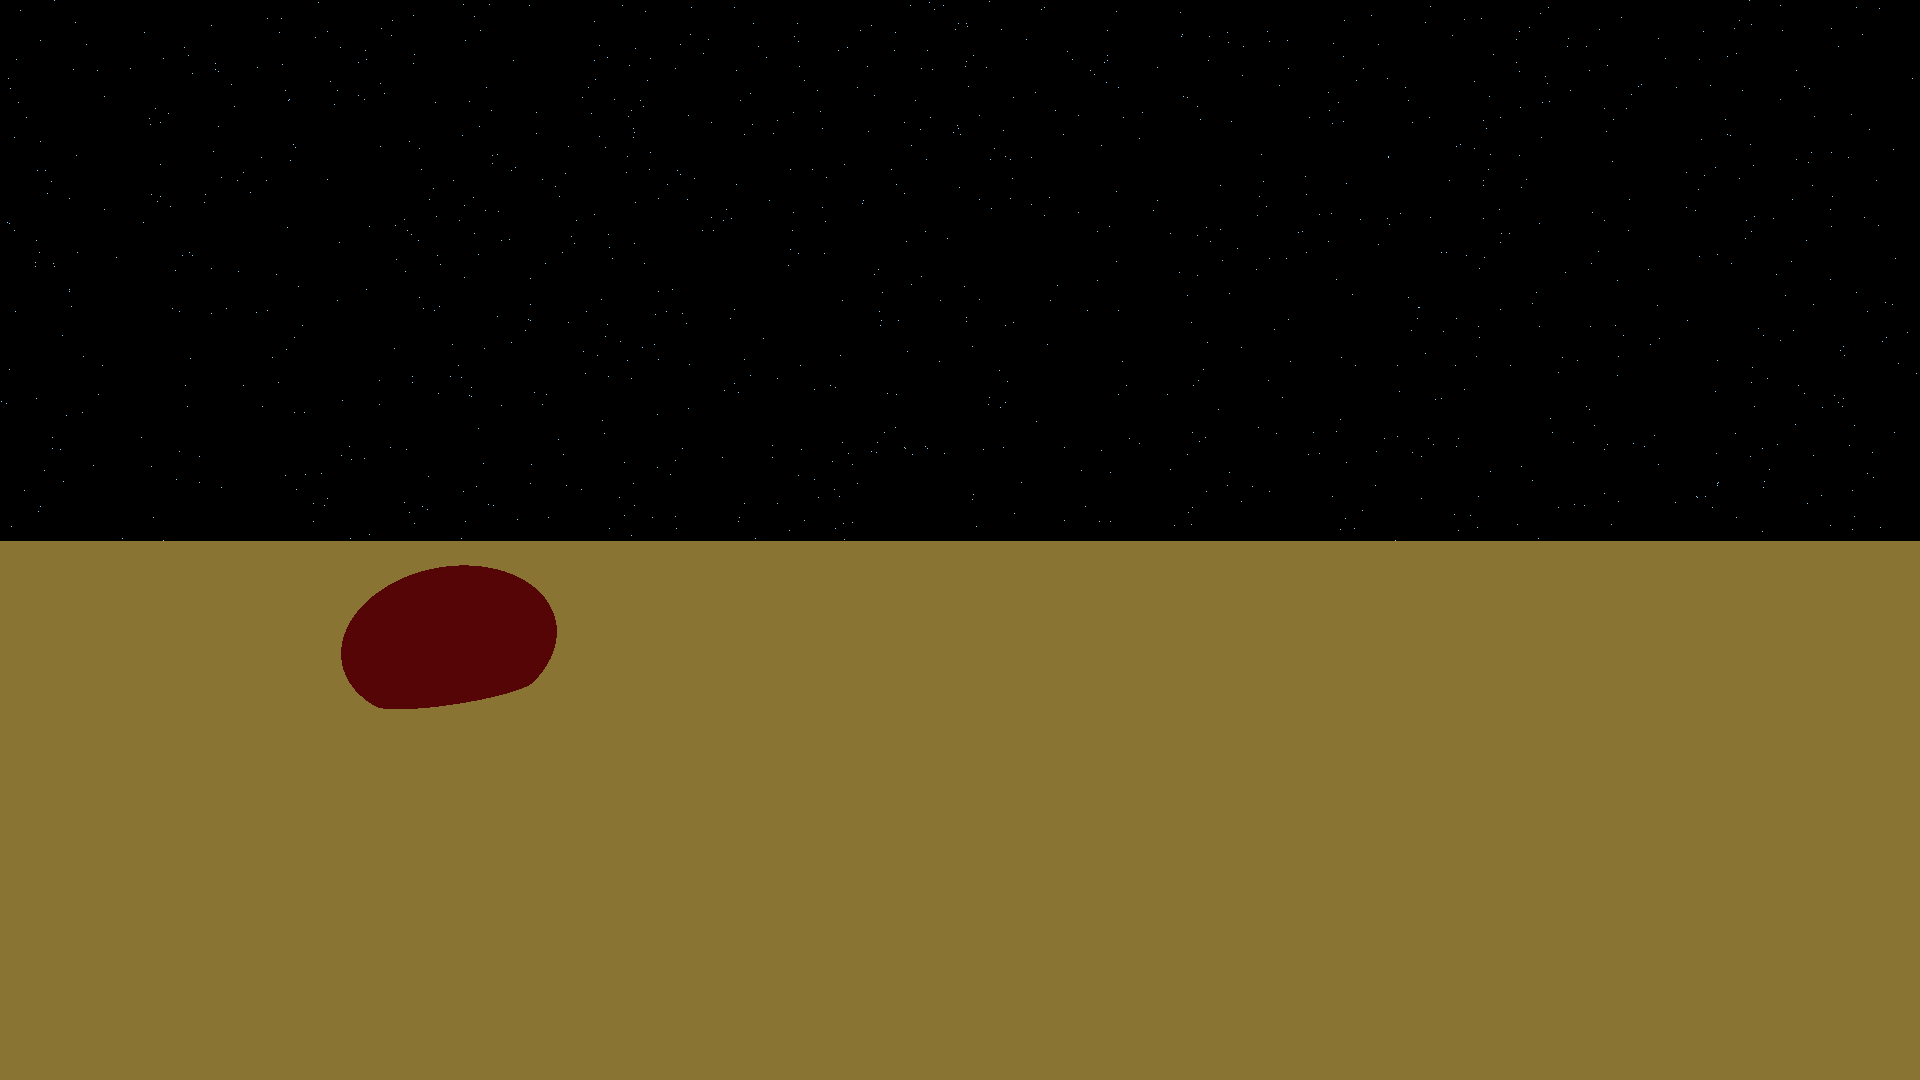
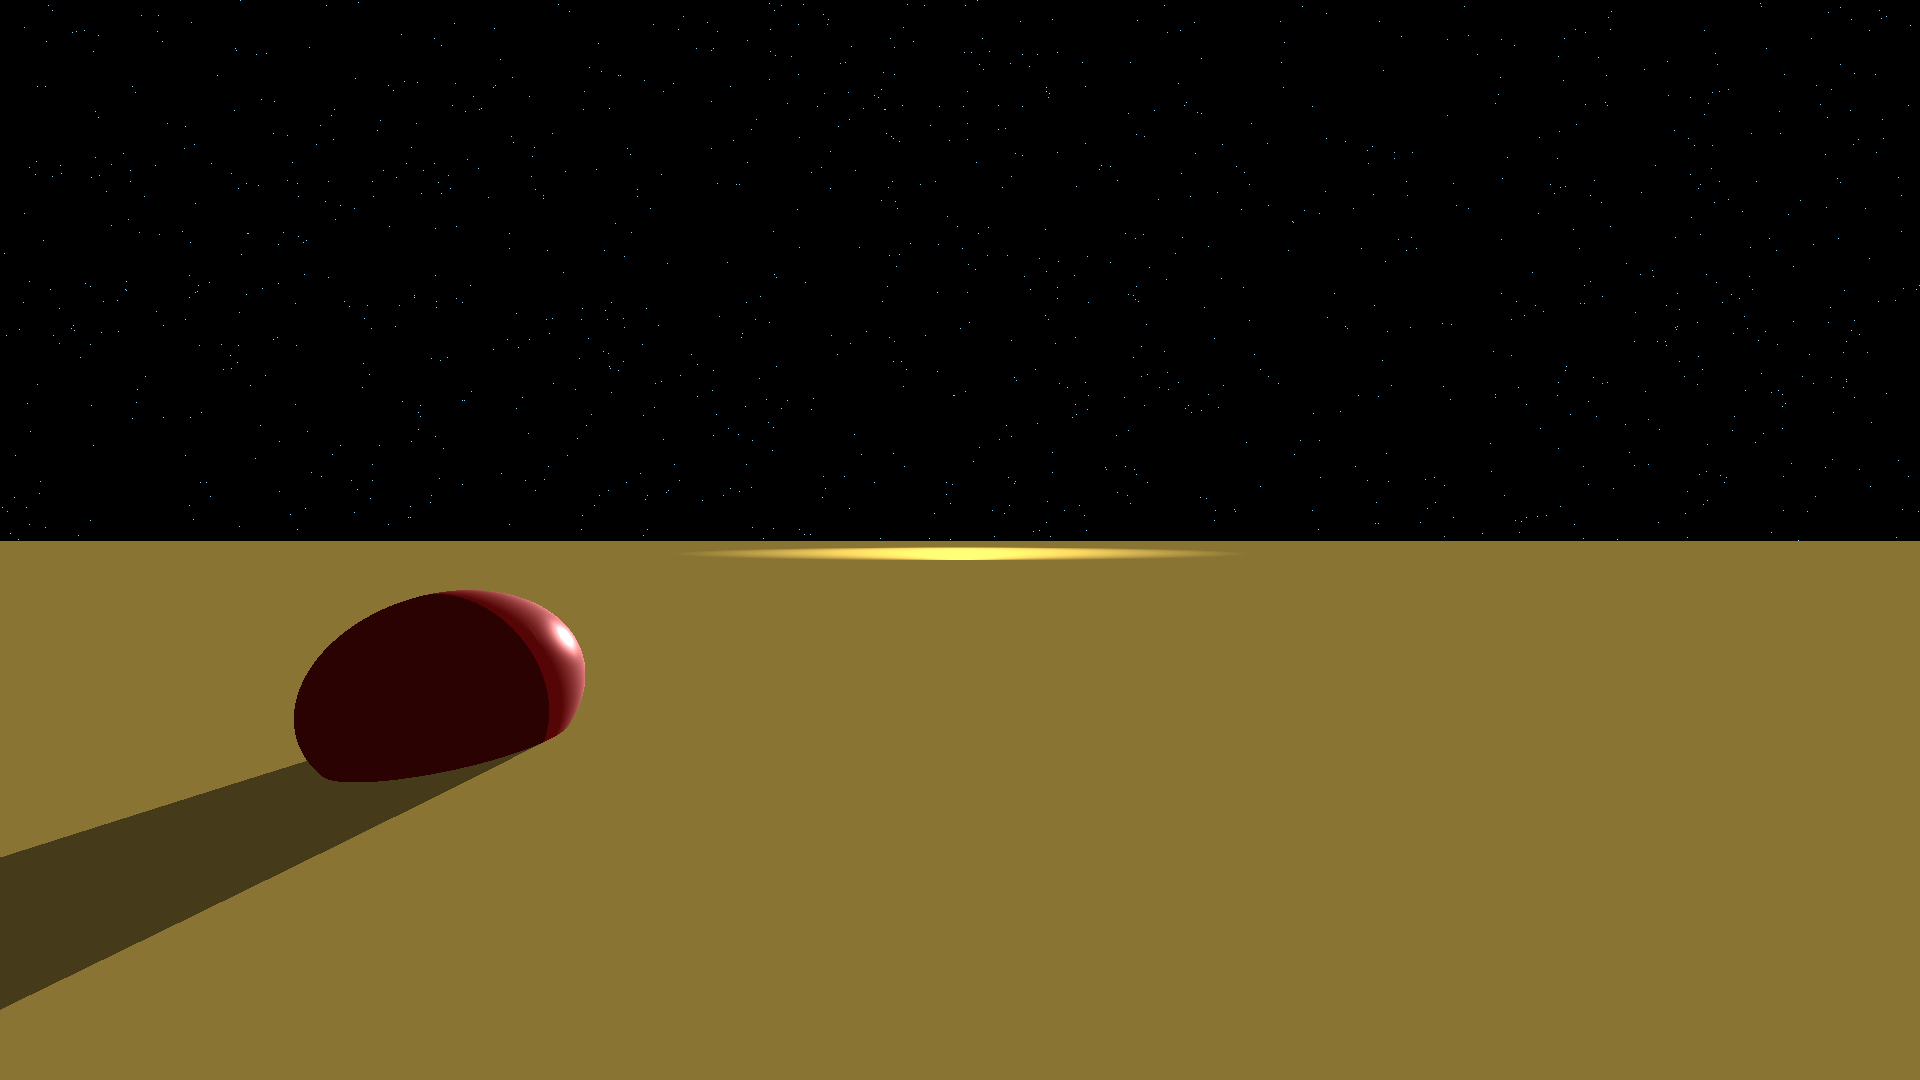
Shadows working

Changed region(s): [[0.0, 0.5194, 0.3125, 0.9472], [0.375, 0.4889, 0.625, 0.5194]]

diff --git a/src/main/Renderer.java b/src/main/Renderer.java
@@ -2,6 +2,7 @@ package main;
 
 import main.object.Object;
 import main.object.Plane;
+import main.object.Sphere;
 
 import javax.imageio.ImageIO;
 import javax.swing.*;
@@ -16,7 +17,7 @@ import java.util.Random;
 
 public class Renderer {
     private static final double LIGHTSOURCEFACTOR = 0.01;
-    private static final double EPSILON = 0.01; // the difference that will be subtracted for shadowing
+    private static final double EPSILON = 0.1; // the difference that will be subtracted for shadowing
     private final JFrame frame;
     private final double focallength, screenWidth, screenHeight;
     private Scene scene;
@@ -68,7 +69,8 @@ public class Renderer {
                 //Vector dir = new Vector(-focallength, w * (y * c - 1), h * (z * r - 1), 0);
                 //Vector dir = new Vector(-focallength, (w - screenWidth) * (y * c / cmax), (h - screenHeight) * (z * r / rmax), 0);
 
-                // create rays
+                // create ray
+                Ray notNormalizedRay = new Ray(scene.getCamera().location, dir);
                 // create normalized ray
                 Vector normalizedDir = new Vector(Utility.normalize(dir.getCoords()));
                 Ray normalizedRay = new Ray(scene.getCamera().location, normalizedDir);
@@ -109,7 +111,7 @@ public class Renderer {
                     // Color: ambient, diffuse, specular
                     double[] rgb = new double[3];
 
-                    getShading(normalizedRay, closestObject, intersectionHit, rgb);
+                    rgb = getShading(normalizedRay, closestObject, intersectionHit, rgb, notNormalizedRay);
 
                     // rgb is now a value between 0 and 1
                     rgb = Arrays.stream(rgb).map(v -> v * 255).toArray();
@@ -139,7 +141,7 @@ public class Renderer {
         System.out.println(endtime - starttime);
     }
 
-    private void getShading(Ray ray, Object currentObject, Intersection intersection, double[] rgb) {
+    private double[] getShading(Ray ray, Object currentObject, Intersection intersection, double[] rgb, Ray notNormalizedRay) {
         double[] ambient = currentObject.getMaterial().getAmbient();
         double[] diffuse = currentObject.getMaterial().getDiffuse();
         double[] specular = currentObject.getMaterial().getSpecular();
@@ -185,16 +187,15 @@ public class Renderer {
 
         // for each lightsource
         for (Map.Entry<Vector, double[]> lightsource : scene.getLightsources().entrySet()) {
-            System.out.println("\n\nHitpoint location: " + Arrays.toString(hitpoint.getCoords()));
-            System.out.println("Lightsource location: " + Arrays.toString(lightsource.getKey().getCoords()));
             // check first for possible shadow spots
-            //Vector dir = Utility.normalize(Utility.subtract(lightsource.getKey(), hitpoint));
-            Vector dir = Utility.subtract(lightsource.getKey(), hitpoint);
+            Vector dir = new Vector(lightsource.getKey().getX() - hitpoint.getX(), lightsource.getKey().getY() - hitpoint.getY(), lightsource.getKey().getZ() - hitpoint.getZ(), 0);
             //dir = Utility.normalize(dir);
 
             if (isInShadow(start, dir)) {
-                rgb = new double[]{0, 0, 0};
-                break;
+                for (int i = 0; i < 3; i++) {
+                    rgb[i] -= rgb[i] * 50 * LIGHTSOURCEFACTOR; // dim the scene a bit
+                }
+                continue;
             }
 
             // now onto diffuse and specular
@@ -270,17 +271,16 @@ public class Renderer {
                 }
             }
         }
+
+        return rgb;
     }
 
     private boolean isInShadow(Vector start, Vector dir) {
-        Ray shadowFeeler = new Ray(new Vector(Utility.normalize(start.getCoords())), new Vector(Utility.normalize(dir.getCoords())));
-        for (Object o : scene.getObjects()) {
-            if(!(o instanceof Plane)) {
-                Intersection intersection = o.getFirstHitPoint(shadowFeeler); //shoot the ray and check if we got a hitpoint with any object
-                if (intersection != null) {
-                    System.out.println("Hit with object: " + o.getClass());
-                    return true;
-                }
+        Ray shadowFeeler = new Ray(start, dir);
+        for (Object o : scene.getObjects()) { //shoot the ray and check if we got a hit with any object
+            Intersection intersection = o.getFirstHitPoint(shadowFeeler);
+            if (intersection != null && intersection.getT1() >= 0 && intersection.getT2() >= 0) {
+                return true;
             }
         }
 

diff --git a/src/main/Main.java b/src/main/Main.java
@@ -27,7 +27,7 @@ public class Main {
         */
 
         // scene
-        Vector lightsourceWhite = new Vector(0, 0, -200, 1); // location
+        Vector lightsourceWhite = new Vector(-1000, 0, -200, 1); // location
         Vector lightsourceBlue = new Vector(500, 0, -1, 1); // location
         Vector lightsourceRed = new Vector(0, -1000, -10, 1); // location
         Vector lightsourceOrange = new Vector(-1000, 1000, -100, 1); // location
@@ -41,19 +41,19 @@ public class Main {
         //scene.addLightsource(lightsourcePink, new double[]{255, 30, 122});
 
         // camera in center of screen
-        Camera camera = new Camera(FOCALLENGTH, 0, 0);
+        Camera camera = new Camera(FOCALLENGTH, 0, -20);
         scene.setCamera(camera);
 
-        Transformation translationSphereRuby = new Translation(200, -100, -50);
-        Transformation translationSphereRuby3 = new Translation(300, 220, -150);
-        Transformation translationSphereRuby4 = new Translation(300, -200, 40);
-        Transformation translationSphereChrome = new Translation(-800, 0, -400);
-        Transformation translationCube = new Translation(120, 200, -50);
-        Transformation translationCone = new Translation(1, 1, -10);
-        Transformation translationPlane = new Translation(0, 0, 60);
+        Transformation translationSphereRuby = new Translation(200, -100, -70);
+        Transformation translationSphereRuby3 = new Translation(300, 220, -170);
+        Transformation translationSphereRuby4 = new Translation(450, -50, -5);
+        Transformation translationSphereChrome = new Translation(-800, 0, -420);
+        Transformation translationCube = new Translation(120, 200, -70);
+        Transformation translationCone = new Translation(1, 1, -30);
+        Transformation translationPlane = new Translation(0, 0, 0);
         Transformation rotateCube = new Rotation().rotateX(12).rotateY(30).rotateZ(54);
         Transformation rotateCone = new Rotation().rotateX(45);
-        Transformation scaleSphereRuby = new Scale(30);
+        Transformation scaleSphereRuby = new Scale(10);
         Transformation scaleCube = new Scale(30);
         Transformation scaleCone = new Scale(30, 30, 30);
         Transformation scaleSphereChrome = new Scale(500);
